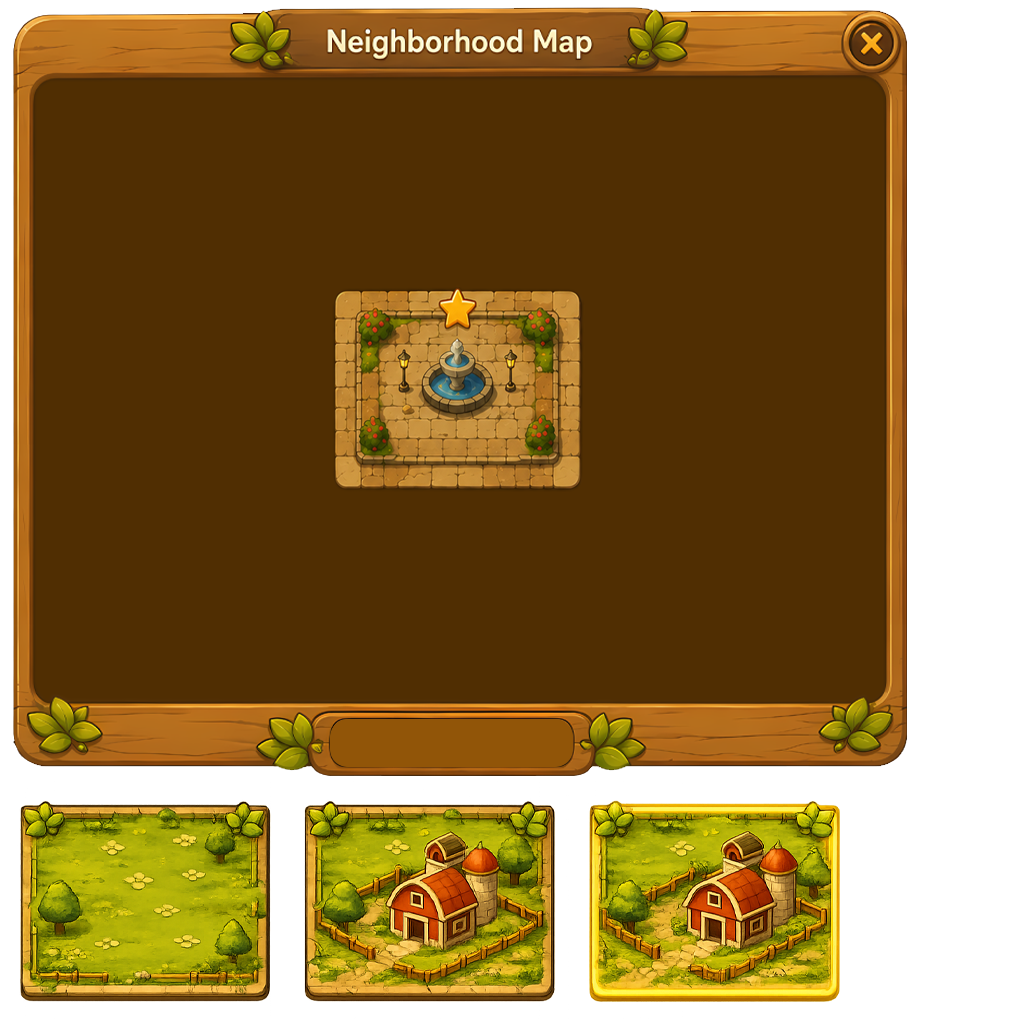
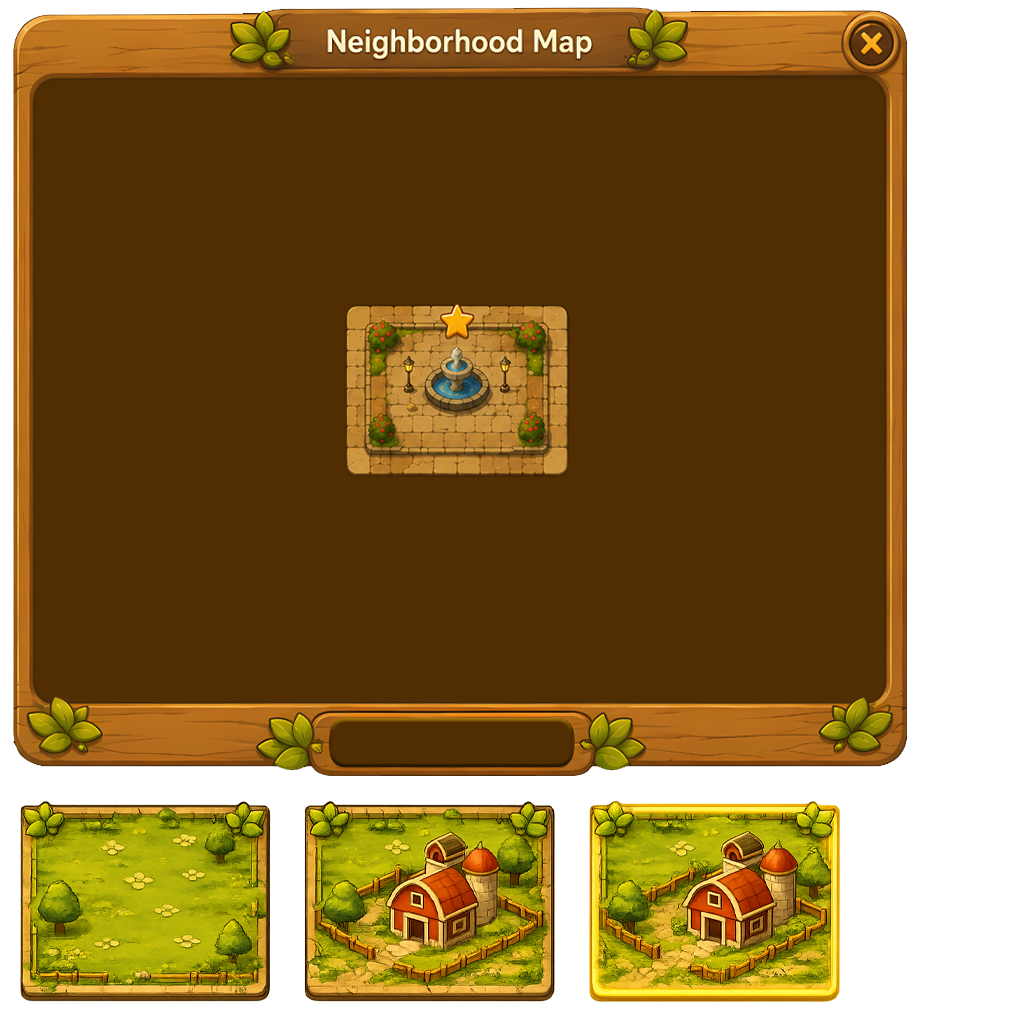
ft: add new extended map

Changed region(s): [[0.3125, 0.2812, 0.5938, 0.5], [0.3125, 0.6875, 0.5625, 0.75]]

diff --git a/src/ui/FarmSelectPanel.tsx b/src/ui/FarmSelectPanel.tsx
@@ -11,8 +11,10 @@ import { teleportToSlot } from '../services/saveService'
 const MINIMAP_ATLAS = 'assets/images/ui_loading/minimap.png'
 const SHOVEL_ICON = 'assets/images/ui_loading/shovel_icon.png'
 const MAP_EXTENDED_ATLAS = 'assets/images/ui_loading/map_extended.png'
+const GLOW_ATLAS = 'assets/images/ui_loading/glow.png'
 const MINIMAP_ATLAS_SIZE = 512
 const MAP_EXTENDED_ATLAS_SIZE = 1024
+const GLOW_ATLAS_SIZE = 1024
 const MAP_TILE_W = 176
 const MAP_TILE_H = 126
 const MAP_ROAD = 16
@@ -68,6 +70,14 @@ const MAP_EXT_BUTTON_LEFT = Math.round((MAP_EXT_BUTTON_RECT.x - MAP_EXT_BG_RECT.
 const MAP_EXT_BUTTON_TOP = Math.round((MAP_EXT_BUTTON_RECT.y - MAP_EXT_BG_RECT.y) * MAP_EXT_SCALE)
 const MAP_EXT_BUTTON_W = Math.round(MAP_EXT_BUTTON_RECT.w * MAP_EXT_SCALE)
 const MAP_EXT_BUTTON_H = Math.round(MAP_EXT_BUTTON_RECT.h * MAP_EXT_SCALE)
+const MAP_EXT_TILE_DISPLAY_SCALE = 0.82
+const GLOW_YELLOW_RECT = { x: 92, y: 94, w: 316, h: 262 } as const
+const GLOW_WHITE_RECT = { x: 474, y: 95, w: 316, h: 262 } as const
+const MAP_EXT_GLOW_W = Math.round(MAP_EXT_TILE_W * 0.92)
+const MAP_EXT_GLOW_H = Math.round(MAP_EXT_TILE_H * 0.92)
+const CARD_FARM_TITLE_MAX_CHARS = 15
+const BUTTON_FARM_TITLE_MAX_CHARS = 18
+let selectedExtendedSlotId = -1
 
 type MapSlotMode = 'available' | 'occupied' | 'own'
 type MapViewMode = 'waiting' | 'overview'
@@ -93,6 +103,15 @@ function extendedAtlasUvs(rect: AtlasRect): number[] {
   const right = (rect.x + rect.w) / MAP_EXTENDED_ATLAS_SIZE
   const top = 1 - rect.y / MAP_EXTENDED_ATLAS_SIZE
   const bottom = 1 - (rect.y + rect.h) / MAP_EXTENDED_ATLAS_SIZE
+
+  return [left, top, right, top, right, bottom, left, bottom]
+}
+
+function glowAtlasUvs(rect: AtlasRect): number[] {
+  const left = rect.x / GLOW_ATLAS_SIZE
+  const right = (rect.x + rect.w) / GLOW_ATLAS_SIZE
+  const top = 1 - rect.y / GLOW_ATLAS_SIZE
+  const bottom = 1 - (rect.y + rect.h) / GLOW_ATLAS_SIZE
 
   return [left, top, right, top, right, bottom, left, bottom]
 }
@@ -154,14 +173,76 @@ function formatPossessive(name: string): string {
   return /s$/i.test(trimmed) ? `${trimmed}'` : `${trimmed}'s`
 }
 
-function formatExtendedFarmTitle(slot: FarmSlot, mode: MapSlotMode): string {
-  if (mode === 'available') return 'Empty Farm'
+function truncateWithEllipsis(text: string, maxChars: number): string {
+  if (text.length <= maxChars) return text
+  if (maxChars <= 3) return text.slice(0, maxChars)
+  return `${text.slice(0, maxChars - 3)}...`
+}
+
+function formatExtendedFarmTitle(slot: FarmSlot, mode: MapSlotMode, maxChars = Number.MAX_SAFE_INTEGER): string {
+  if (mode === 'available') return truncateWithEllipsis('Empty Farm', maxChars)
 
   const displayName = slot.displayName.trim()
-  if (displayName) return `${formatPossessive(displayName)} Farm`
+  if (displayName) return truncateWithEllipsis(`${formatPossessive(displayName)} Farm`, maxChars)
 
-  if (mode === 'own') return 'Your Farm'
-  return 'Occupied Farm'
+  if (mode === 'own') return truncateWithEllipsis('Your Farm', maxChars)
+  return truncateWithEllipsis('Occupied Farm', maxChars)
+}
+
+function getDefaultSelectedSlotId(slots: FarmSlot[], highlightedSlotId: number): number {
+  const own = slots.find((slot) => slot.slotId === highlightedSlotId)
+  if (own) return own.slotId
+
+  const available = slots.find((slot) => slot.wallet === '')
+  if (available) return available.slotId
+
+  return slots[0]?.slotId ?? -1
+}
+
+function OutlinedLabel(props: {
+  value: string
+  fontSize: number
+  width: number
+  height: number
+  color: { r: number; g: number; b: number; a: number }
+  outlineColor: { r: number; g: number; b: number; a: number }
+  textAlign: 'middle-left' | 'middle-center' | 'middle-right'
+  outlineSize?: number
+}) {
+  const outlineSize = props.outlineSize ?? 1
+  const offsets = [
+    { left: -outlineSize, top: 0 },
+    { left: outlineSize, top: 0 },
+    { left: 0, top: -outlineSize },
+    { left: 0, top: outlineSize },
+  ]
+
+  return (
+    <UiEntity uiTransform={{ width: props.width, height: props.height }}>
+      {offsets.map((offset, index) => (
+        <Label
+          key={`outline-${index}`}
+          value={props.value}
+          fontSize={props.fontSize}
+          color={props.outlineColor}
+          textAlign={props.textAlign}
+          uiTransform={{
+            width: props.width,
+            height: props.height,
+            positionType: 'absolute',
+            position: offset,
+          }}
+        />
+      ))}
+      <Label
+        value={props.value}
+        fontSize={props.fontSize}
+        color={props.color}
+        textAlign={props.textAlign}
+        uiTransform={{ width: props.width, height: props.height }}
+      />
+    </UiEntity>
+  )
 }
 
 function clamp01(value: number): number {
@@ -530,64 +611,85 @@ const MiniMapPlazaTile = () => (
 const ExtendedMapFarmTile = ({
   slot,
   mode,
-  viewMode,
+  selected,
+  onSelect,
 }: {
   key?: string
   slot: FarmSlot
   mode: MapSlotMode
-  viewMode: MapViewMode
+  selected: boolean
+  onSelect: () => void
 }) => {
-  const onClick =
-    mode === 'available' && viewMode === 'waiting'
-      ? () => requestClaimSlot(slot.slotId)
-      : mode === 'own'
-        ? () => {
-            playSound('buttonclick')
-            teleportToFarm(slot.slotId)
-          }
-        : mode === 'occupied'
-          ? () => visitSlot(slot)
-          : undefined
-  const title = formatExtendedFarmTitle(slot, mode)
+  const title = formatExtendedFarmTitle(slot, mode, CARD_FARM_TITLE_MAX_CHARS)
+  const cardWidth = Math.round(MAP_EXT_TILE_W * MAP_EXT_TILE_DISPLAY_SCALE)
+  const cardHeight = Math.round(MAP_EXT_TILE_H * MAP_EXT_TILE_DISPLAY_SCALE)
+  const glowRect = mode === 'own' ? GLOW_YELLOW_RECT : GLOW_WHITE_RECT
 
   return (
     <UiEntity
       uiTransform={{
         width: MAP_EXT_TILE_W,
         height: MAP_EXT_TILE_H,
+        alignItems: 'center',
+        justifyContent: 'center',
       }}
-      uiBackground={{
-        texture: { src: MAP_EXTENDED_ATLAS, wrapMode: 'clamp' },
-        textureMode: 'stretch',
-        uvs: extendedAtlasUvsRotatedRight(
-          mode === 'own' ? MAP_EXT_OWN_RECT :
-          mode === 'available' ? MAP_EXT_EMPTY_RECT :
-          MAP_EXT_OCCUPIED_RECT
-        ),
-      }}
-      onMouseDown={onClick}
+      onMouseDown={onSelect}
     >
-      <UiEntity
-        uiTransform={{
-          positionType: 'absolute',
-          position: { left: 12, bottom: 12 },
-          width: MAP_EXT_TILE_W - 24,
-          height: 28,
-          alignItems: 'center',
-          justifyContent: 'center',
-        }}
-        uiBackground={{ color: { r: 0.31, g: 0.18, b: 0.08, a: 0.92 } }}
-      >
-        <Label
-          value={title}
-          fontSize={16}
-          color={{ r: 1, g: 1, b: 1, a: 1 }}
-          textAlign="middle-center"
+      {selected && (
+        <UiEntity
           uiTransform={{
-            width: MAP_EXT_TILE_W - 36,
-            height: 20,
+            positionType: 'absolute',
+            position: {
+              left: Math.round((MAP_EXT_TILE_W - MAP_EXT_GLOW_W) / 2),
+              top: Math.round((MAP_EXT_TILE_H - MAP_EXT_GLOW_H) / 2),
+            },
+            width: MAP_EXT_GLOW_W,
+            height: MAP_EXT_GLOW_H,
+          }}
+          uiBackground={{
+            texture: { src: GLOW_ATLAS, wrapMode: 'clamp' },
+            textureMode: 'stretch',
+            uvs: glowAtlasUvs(glowRect),
           }}
         />
+      )}
+      <UiEntity
+        uiTransform={{
+          width: cardWidth,
+          height: cardHeight,
+        }}
+        uiBackground={{
+          texture: { src: MAP_EXTENDED_ATLAS, wrapMode: 'clamp' },
+          textureMode: 'stretch',
+          uvs: extendedAtlasUvsRotatedRight(
+            mode === 'own' ? MAP_EXT_OWN_RECT :
+            mode === 'available' ? MAP_EXT_EMPTY_RECT :
+            MAP_EXT_OCCUPIED_RECT
+          ),
+        }}
+      >
+        <UiEntity
+          uiTransform={{
+            positionType: 'absolute',
+            position: { left: 12, bottom: 10 },
+            width: cardWidth - 24,
+            height: 28,
+            alignItems: 'center',
+            justifyContent: 'center',
+          }}
+          uiBackground={{ color: { r: 0.31, g: 0.18, b: 0.08, a: 0.92 } }}
+        >
+          <Label
+            value={title}
+            fontSize={16}
+            color={{ r: 1, g: 1, b: 1, a: 1 }}
+            textAlign="middle-center"
+            uiTransform={{
+              width: cardWidth - 36,
+              height: 20,
+            }}
+          />
+        </UiEntity>
       </UiEntity>
     </UiEntity>
   )
@@ -647,6 +749,10 @@ export const FarmSelectPanel = () => {
   if (viewMode) {
     const slotById = new Map(slots.map((slot) => [slot.slotId, slot]))
     const highlightedSlotId = getHighlightedSlotId()
+    const defaultSelectedSlotId = getDefaultSelectedSlotId(slots, highlightedSlotId)
+    if (!slotById.has(selectedExtendedSlotId)) selectedExtendedSlotId = defaultSelectedSlotId
+    const selectedSlot = slotById.get(selectedExtendedSlotId) ?? null
+    const selectedMode = selectedSlot ? getSlotMode(selectedSlot, highlightedSlotId) : null
     const mapGridWidth = MAP_EXT_TILE_W * 3 + MAP_EXT_ROAD_X * 2
     const mapGridHeight = MAP_EXT_TILE_H * 3 + MAP_EXT_ROAD_Y * 2
     const mapGridLeft = MAP_EXT_WINDOW_LEFT + Math.round((MAP_EXT_WINDOW_W - mapGridWidth) / 2)
@@ -657,13 +763,34 @@ export const FarmSelectPanel = () => {
     const miniGridHeight = MINI_TILE_H * 3 + MINI_ROAD * 2
     const bigMarker = getPlayerMarkerPosition(mapGridWidth, mapGridHeight)
     const miniMarker = getPlayerMarkerPosition(miniGridWidth, miniGridHeight)
-    const bottomButtonLabel = mySlot ? 'Back to My Plot' : 'Close Map'
-    const handleBottomButton = mySlot
-      ? () => {
-          playSound('buttonclick')
-          teleportToFarm(mySlot.slotId)
-        }
-      : () => closeMap(viewMode)
+    const canClaimSelectedEmptyFarm = !!selectedSlot && selectedMode === 'available' && !mySlot
+    const bottomButtonLabel =
+      selectedSlot && selectedMode === 'own' ? 'Back to My Plot' :
+      selectedSlot && selectedMode === 'occupied' ? `Visit ${formatExtendedFarmTitle(selectedSlot, selectedMode, BUTTON_FARM_TITLE_MAX_CHARS)}` :
+      selectedSlot && selectedMode === 'available' ? (canClaimSelectedEmptyFarm ? 'Claim Empty Farm' : 'Visit Empty Farm') :
+      mySlot ? 'Back to My Plot' :
+      'Close Map'
+    const handleBottomButton =
+      selectedSlot && selectedMode === 'own'
+        ? () => {
+            playSound('buttonclick')
+            teleportToFarm(selectedSlot.slotId)
+          }
+        : selectedSlot && selectedMode === 'occupied'
+          ? () => visitSlot(selectedSlot)
+        : selectedSlot && selectedMode === 'available'
+            ? (canClaimSelectedEmptyFarm
+              ? () => requestClaimSlot(selectedSlot.slotId)
+              : () => {
+                  playSound('buttonclick')
+                  teleportToFarm(selectedSlot.slotId)
+                })
+            : mySlot
+              ? () => {
+                  playSound('buttonclick')
+                  teleportToFarm(mySlot.slotId)
+                }
+              : () => closeMap(viewMode)
     const showMiniMap =
       viewMode === 'waiting'
         ? playerState.plazaMapMinimized
@@ -769,7 +896,18 @@ export const FarmSelectPanel = () => {
                   }
 
                   const slot = slotById.get(slotId)
-                  return slot ? <ExtendedMapFarmTile key={`map-slot-${slotId}`} slot={slot} mode={getSlotMode(slot, highlightedSlotId)} viewMode={viewMode} /> : <UiEntity key={`empty-${slotId}`} />
+                  return slot ? (
+                    <ExtendedMapFarmTile
+                      key={`map-slot-${slotId}`}
+                      slot={slot}
+                      mode={getSlotMode(slot, highlightedSlotId)}
+                      selected={slot.slotId === selectedExtendedSlotId}
+                      onSelect={() => {
+                        playSound('buttonclick')
+                        selectedExtendedSlotId = slot.slotId
+                      }}
+                    />
+                  ) : <UiEntity key={`empty-${slotId}`} />
                 })}
               </UiEntity>
             ))}
@@ -786,12 +924,15 @@ export const FarmSelectPanel = () => {
             }}
             onMouseDown={handleBottomButton}
           >
-            <Label
+            <OutlinedLabel
               value={bottomButtonLabel}
-              fontSize={18}
-              color={{ r: 1, g: 1, b: 1, a: 1 }}
+              fontSize={21}
+              color={{ r: 0.98, g: 0.83, b: 0.32, a: 1 }}
+              outlineColor={{ r: 0, g: 0, b: 0, a: 1 }}
               textAlign="middle-center"
-              uiTransform={{ width: MAP_EXT_BUTTON_W - 20, height: 24 }}
+              outlineSize={2}
+              width={MAP_EXT_BUTTON_W - 20}
+              height={28}
             />
           </UiEntity>
           <UiEntity